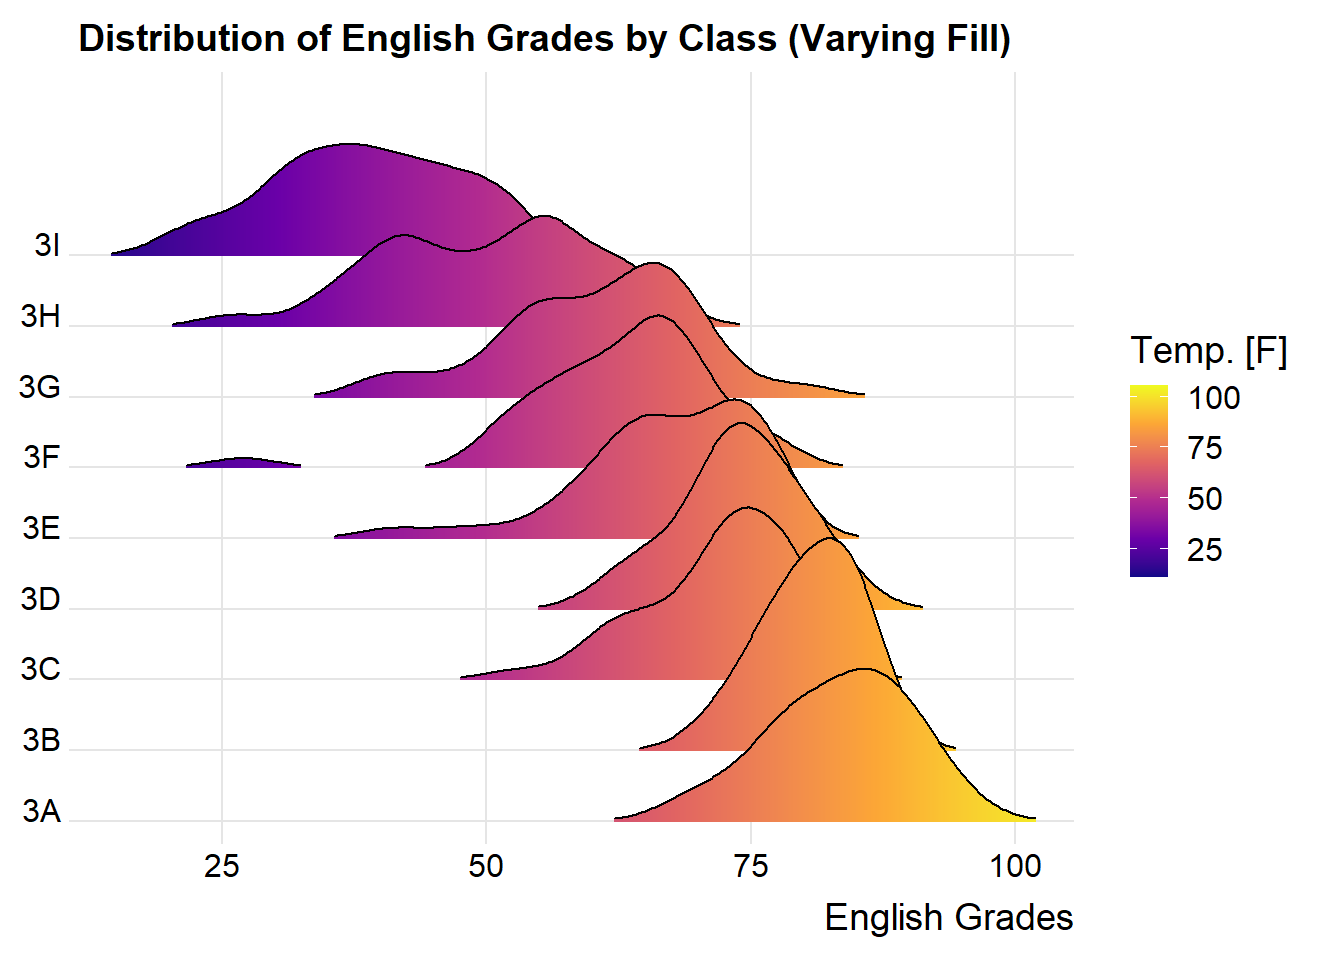
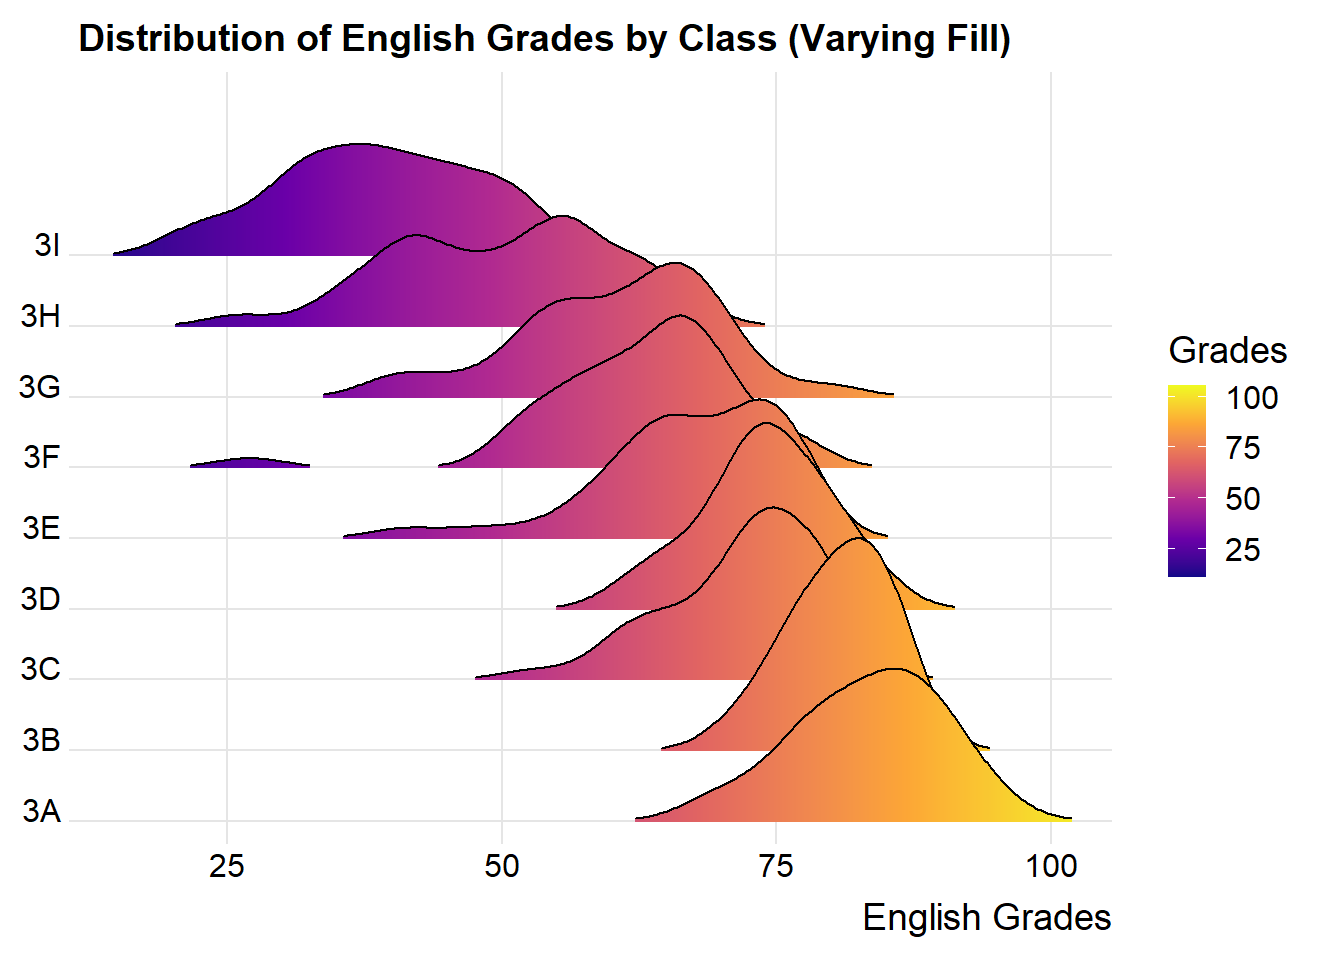
hands_on_ex04

diff --git a/_site/hands_on_ex/hands_on_ex04/hands_on_ex04.html b/_site/hands_on_ex/hands_on_ex04/hands_on_ex04.html
@@ -386,7 +386,20 @@ $ SCIENCE &lt;dbl&gt; 15, 16, 16, 31, 25, 16, 25, 27, 15, 37, 42, 22, 32, 36, 35
 <h1>3. Ridgeline Plot</h1>
 <p>A ridgeline plot is a visualisation technique that reveals the distribution of a numeric value for several groups or over different time periods.</p>
 <p>Ridgeline plots are useful when there are more than five groups to be represented on the plot. This is because space is used more efficiently in a ridgeline plot due to the overlaps. Ridgeline plots also work well when there are clear patterns in the results, such as obvious rankings across groups.</p>
-<p>We can use the <code>ggridges</code> package to plot ridgeline plots. In this package, we use <code>geom_ridgeline()</code> to draw the ridgelines and <code>geom_density_ridges()</code> to draw the estimated data densities using ridgelines.</p>
+<p>We can use the <code>ggridges</code> package to plot ridgeline plots. In this package, we use <code>geom_ridgeline()</code> (gives exact x and y values, need to define height) to draw the ridgelines and <code>geom_density_ridges()</code> (gives interpolated values) to draw the estimated data densities using ridgelines.</p>
+<div class="callout callout-style-default callout-important callout-titled">
+<div class="callout-header d-flex align-content-center">
+<div class="callout-icon-container">
+<i class="callout-icon"></i>
+</div>
+<div class="callout-title-container flex-fill">
+Important
+</div>
+</div>
+<div class="callout-body-container callout-body">
+<p>When constructing a ridgeline plot, data must consist of one catoegorical and one continuous type. For example, when plotting time in months, it is safer to use months in its spelling form (Jan, Feb) instead of its numerical form (1, 2).</p>
+</div>
+</div>
 <div class="tabset-margin-container"></div><div class="panel-tabset">
 <ul class="nav nav-tabs" role="tablist"><li class="nav-item" role="presentation"><a class="nav-link active" id="tabset-1-1-tab" data-bs-toggle="tab" data-bs-target="#tabset-1-1" role="tab" aria-controls="tabset-1-1" aria-selected="true"><code>geom_density_ridges()</code></a></li><li class="nav-item" role="presentation"><a class="nav-link" id="tabset-1-2-tab" data-bs-toggle="tab" data-bs-target="#tabset-1-2" role="tab" aria-controls="tabset-1-2" aria-selected="false">Varying Fill Colours</a></li><li class="nav-item" role="presentation"><a class="nav-link" id="tabset-1-3-tab" data-bs-toggle="tab" data-bs-target="#tabset-1-3" role="tab" aria-controls="tabset-1-3" aria-selected="false">Mapping Probabilities</a></li><li class="nav-item" role="presentation"><a class="nav-link" id="tabset-1-4-tab" data-bs-toggle="tab" data-bs-target="#tabset-1-4" role="tab" aria-controls="tabset-1-4" aria-selected="false">Mapping Quantile Lines</a></li><li class="nav-item" role="presentation"><a class="nav-link" id="tabset-1-5-tab" data-bs-toggle="tab" data-bs-target="#tabset-1-5" role="tab" aria-controls="tabset-1-5" aria-selected="false">Mapping Specified Quantile Cut-Points</a></li></ul>
 <div class="tab-content">
@@ -416,6 +429,20 @@ $ SCIENCE &lt;dbl&gt; 15, 16, 16, 31, 25, 16, 25, 27, 15, 37, 42, 22, 32, 36, 35
 <p><img src="hands_on_ex04_files/figure-html/unnamed-chunk-3-1.png" class="img-fluid" width="672"></p>
 </div>
 </div>
+<div class="callout callout-style-default callout-important callout-titled">
+<div class="callout-header d-flex align-content-center">
+<div class="callout-icon-container">
+<i class="callout-icon"></i>
+</div>
+<div class="callout-title-container flex-fill">
+Important
+</div>
+</div>
+<div class="callout-body-container callout-body">
+<p>As <code>geom_density_ridges()</code> uses interpolated values, it is best not to represent this plot in an interactive manner as it may confuse the user.</p>
+</div>
+</div>
+<p>We can observe that the distribution of English scores for classes 3A, 3B, 3C and 3D generally resemble a normal distribution. It is observed that the distribution of 3A is wider than that of 3B (bigger variability); this means that generally the students of 3B generally do almost equally well in English.</p>
 </div>
 <div id="tabset-1-2" class="tab-pane" role="tabpanel" aria-labelledby="tabset-1-2-tab">
 <p>We can use the <code>geom_ridgeline_gradient()</code> or the <code>geom_density_ridges_gradient()</code> functions that allow for varying fill colours.</p>
@@ -429,7 +456,7 @@ $ SCIENCE &lt;dbl&gt; 15, 16, 16, 31, 25, 16, 25, 27, 15, 37, 42, 22, 32, 36, 35
 <span id="cb5-5"><a href="#cb5-5" aria-hidden="true" tabindex="-1"></a>  <span class="fu">geom_density_ridges_gradient</span>(</span>
 <span id="cb5-6"><a href="#cb5-6" aria-hidden="true" tabindex="-1"></a>    <span class="at">scale =</span> <span class="dv">3</span>,</span>
 <span id="cb5-7"><a href="#cb5-7" aria-hidden="true" tabindex="-1"></a>    <span class="at">rel_min_height =</span> <span class="fl">0.01</span>) <span class="sc">+</span></span>
-<span id="cb5-8"><a href="#cb5-8" aria-hidden="true" tabindex="-1"></a>  <span class="fu">scale_fill_viridis_c</span>(<span class="at">name =</span> <span class="st">"Temp. [F]"</span>,</span>
+<span id="cb5-8"><a href="#cb5-8" aria-hidden="true" tabindex="-1"></a>  <span class="fu">scale_fill_viridis_c</span>(<span class="at">name =</span> <span class="st">"Grades"</span>,</span>
 <span id="cb5-9"><a href="#cb5-9" aria-hidden="true" tabindex="-1"></a>                        <span class="at">option =</span> <span class="st">"C"</span>) <span class="sc">+</span></span>
 <span id="cb5-10"><a href="#cb5-10" aria-hidden="true" tabindex="-1"></a>  <span class="fu">scale_x_continuous</span>(</span>
 <span id="cb5-11"><a href="#cb5-11" aria-hidden="true" tabindex="-1"></a>    <span class="at">name =</span> <span class="st">"English Grades"</span>,</span>
